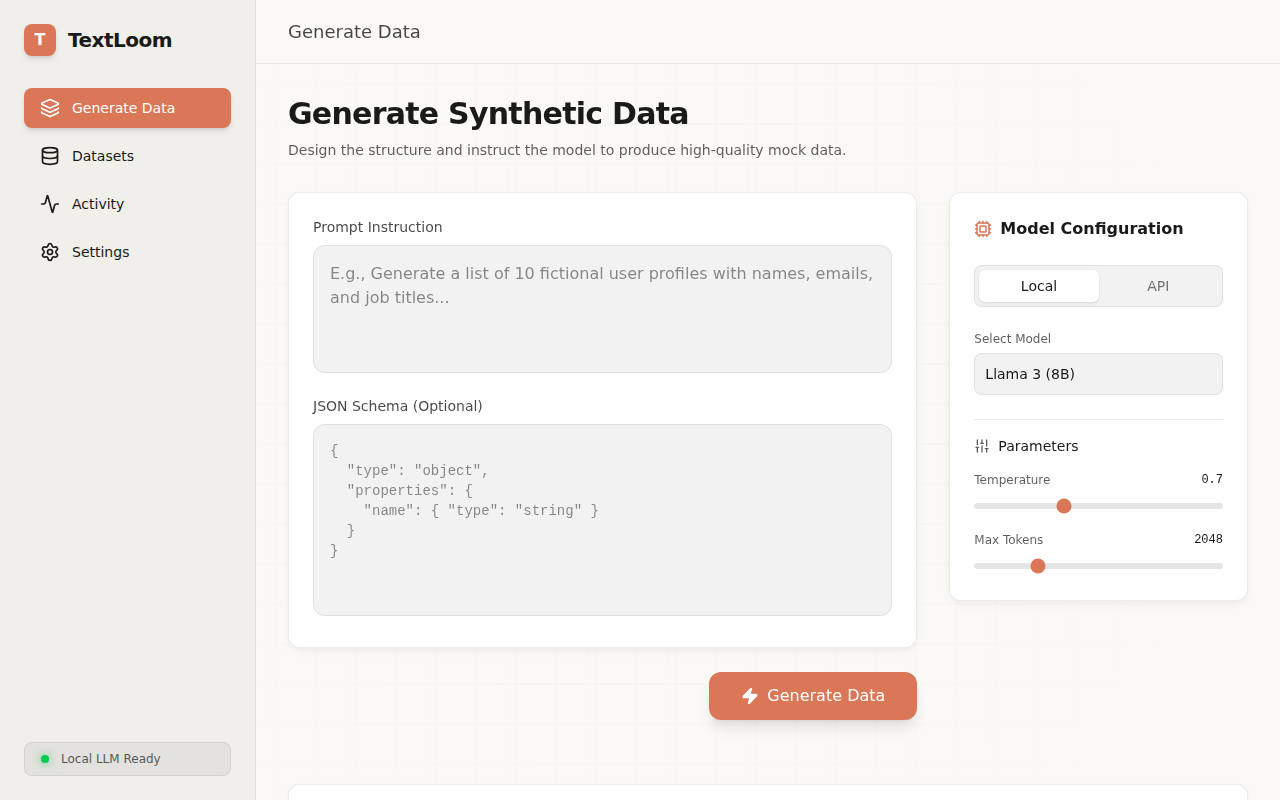
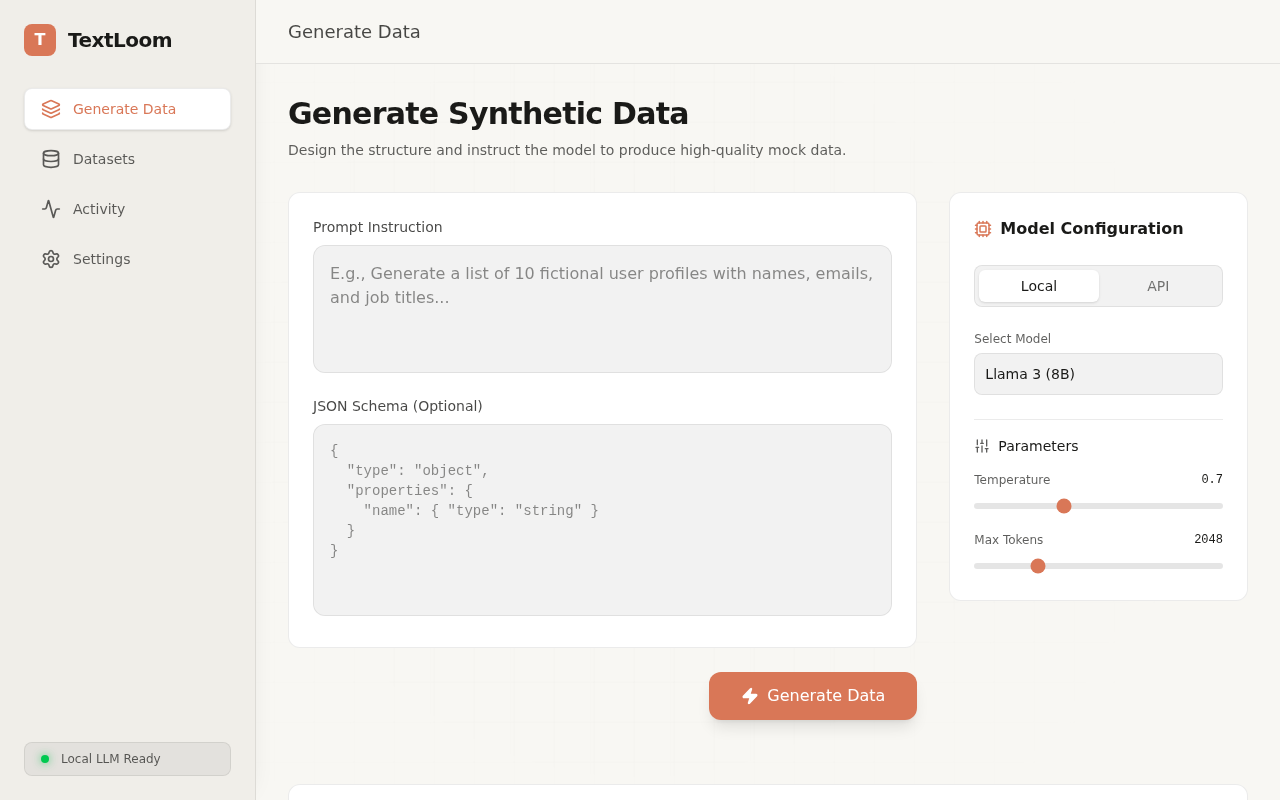
Elevate UI design with modern aesthetic and interactions
- Replace glassmorphism with solid, clean panels and Anthropic-inspired colors.
- Introduce `SpotlightCard` for beautiful, mouse-tracking hover interactions.
- Update Framer Motion spring interactions on navigation items and form elements.
- Enhance table row styling in ResultsView with interactive states.
- Refine background grid layer opacity and animation speed.

diff --git a/src/components/DataGenerationForm.tsx b/src/components/DataGenerationForm.tsx
@@ -1,6 +1,7 @@
 import React, { useState } from 'react';
 import { motion } from 'framer-motion';
 import { Sliders, Cpu, Zap } from 'lucide-react';
+import SpotlightCard from './SpotlightCard';
 
 const DataGenerationForm: React.FC = () => {
   const [modelType, setModelType] = useState<'local' | 'api'>('local');
@@ -14,8 +15,8 @@ const DataGenerationForm: React.FC = () => {
           initial={{ opacity: 0, y: 20 }}
           animate={{ opacity: 1, y: 0 }}
           transition={{ delay: 0.1, type: "spring", stiffness: 400, damping: 40 }}
-          className="glass-panel p-6 rounded-2xl"
         >
+          <SpotlightCard className="p-6 rounded-2xl">
           <div className="mb-4">
             <label className="block text-sm font-medium opacity-80 mb-2">Prompt Instruction</label>
             <textarea
@@ -33,6 +34,7 @@ const DataGenerationForm: React.FC = () => {
               ></textarea>
             </div>
           </div>
+          </SpotlightCard>
         </motion.div>
 
         <motion.div
@@ -41,10 +43,14 @@ const DataGenerationForm: React.FC = () => {
           transition={{ delay: 0.2, type: "spring", stiffness: 400, damping: 40 }}
           className="flex justify-end"
         >
-          <button className="flex items-center space-x-2 px-8 py-3 rounded-xl bg-[var(--accent-color)] hover:bg-[var(--accent-hover)] text-white font-medium shadow-lg shadow-[var(--accent-color)]/30 smooth-transition transform hover:scale-105 active:scale-95">
+          <motion.button
+            whileHover={{ scale: 1.02 }}
+            whileTap={{ scale: 0.98 }}
+            className="flex items-center space-x-2 px-8 py-3 rounded-xl bg-[var(--accent-color)] hover:bg-[var(--accent-hover)] text-white font-medium shadow-lg shadow-[var(--accent-color)]/30 smooth-transition"
+          >
             <Zap size={18} className="fill-current" />
             <span>Generate Data</span>
-          </button>
+          </motion.button>
         </motion.div>
       </div>
 
@@ -55,7 +61,7 @@ const DataGenerationForm: React.FC = () => {
         transition={{ delay: 0.3, type: "spring", stiffness: 400, damping: 40 }}
         className="space-y-6"
       >
-        <div className="glass-panel p-6 rounded-2xl">
+        <SpotlightCard className="p-6 rounded-2xl">
           <div className="flex items-center space-x-2 mb-6">
             <Cpu size={18} className="text-[var(--accent-color)]" />
             <h3 className="font-semibold">Model Configuration</h3>
@@ -139,7 +145,7 @@ const DataGenerationForm: React.FC = () => {
               </div>
             </div>
           </div>
-        </div>
+        </SpotlightCard>
       </motion.div>
     </div>
   );

diff --git a/src/components/Layout.tsx b/src/components/Layout.tsx
@@ -31,11 +31,11 @@ const Layout: React.FC<LayoutProps> = ({ children }) => {
         initial={{ x: -250 }}
         animate={{ x: 0 }}
         transition={{ type: "spring", stiffness: 400, damping: 40 }}
-        className="w-64 flex flex-col glass-sidebar z-10"
+        className="w-64 flex flex-col solid-sidebar z-10 shadow-[4px_0_24px_-12px_rgba(0,0,0,0.1)]"
       >
         <div className="p-6">
           <div className="flex items-center space-x-3 mb-8">
-            <div className="w-8 h-8 rounded-lg bg-[var(--accent-color)] flex items-center justify-center text-white font-bold shadow-md">
+            <div className="w-8 h-8 rounded-lg bg-[var(--accent-color)] flex items-center justify-center text-white font-bold">
               T
             </div>
             <h1 className="text-xl font-semibold tracking-tight">TextLoom</h1>
@@ -43,18 +43,21 @@ const Layout: React.FC<LayoutProps> = ({ children }) => {
 
           <nav className="space-y-2">
             {navItems.map((item) => (
-              <button
+              <motion.button
                 key={item.id}
                 onClick={() => setActiveTab(item.id)}
-                className={`w-full flex items-center space-x-3 px-4 py-2.5 rounded-lg smooth-transition ${
+                whileHover={{ scale: 1.02 }}
+                whileTap={{ scale: 0.98 }}
+                transition={{ type: "spring", stiffness: 400, damping: 25 }}
+                className={`w-full flex items-center space-x-3 px-4 py-2.5 rounded-lg smooth-transition border ${
                   activeTab === item.id
-                    ? 'bg-[var(--accent-color)] text-white shadow-md'
-                    : 'hover:bg-black/5 dark:hover:bg-white/10 text-opacity-80'
+                    ? 'bg-[var(--card-bg)] text-[var(--accent-color)] border-[var(--border-color)] shadow-sm'
+                    : 'border-transparent hover:bg-black/5 dark:hover:bg-white/10 opacity-70 hover:opacity-100'
                 }`}
               >
                 {item.icon}
                 <span className="font-medium text-sm">{item.label}</span>
-              </button>
+              </motion.button>
             ))}
           </nav>
         </div>

diff --git a/src/components/ResultsView.tsx b/src/components/ResultsView.tsx
@@ -1,6 +1,7 @@
 import React, { useState } from 'react';
 import { motion, AnimatePresence } from 'framer-motion';
 import { Copy, Check, FileJson, Code } from 'lucide-react';
+import SpotlightCard from './SpotlightCard';
 
 const ResultsView: React.FC = () => {
   const [copied, setCopied] = useState(false);
@@ -25,7 +26,7 @@ const ResultsView: React.FC = () => {
       transition={{ delay: 0.4, type: "spring", stiffness: 400, damping: 40 }}
       className="mt-8"
     >
-      <div className="glass-panel p-6 rounded-2xl">
+      <SpotlightCard className="p-6 rounded-2xl">
         <div className="flex items-center justify-between mb-6">
           <div className="flex items-center space-x-2">
             <FileJson size={18} className="text-[var(--accent-color)]" />
@@ -99,7 +100,11 @@ const ResultsView: React.FC = () => {
                 </thead>
                 <tbody>
                   {dummyData.map((row, i) => (
-                    <tr key={i} className="border-b border-[var(--border-color)] last:border-0 hover:bg-black/5 dark:hover:bg-white/5 smooth-transition">
+                    <motion.tr
+                      key={i}
+                      whileHover={{ backgroundColor: "rgba(0,0,0,0.02)" }}
+                      className="border-b border-[var(--border-color)] last:border-0 dark:hover:bg-white/5 smooth-transition"
+                    >
                       {Object.values(row).map((val: unknown, j) => (
                         <td key={j} className="p-3 text-sm">
                           {typeof val === 'string' && (val === 'Active' || val === 'Inactive') ? (
@@ -109,14 +114,14 @@ const ResultsView: React.FC = () => {
                           ) : val as React.ReactNode}
                         </td>
                       ))}
-                    </tr>
+                    </motion.tr>
                   ))}
                 </tbody>
               </table>
             </div>
           )}
         </div>
-      </div>
+      </SpotlightCard>
     </motion.div>
   );
 };

diff --git a/src/components/SpotlightCard.tsx b/src/components/SpotlightCard.tsx
@@ -1,0 +1,55 @@
+import React, { useState } from 'react';
+import { motion, useMotionTemplate, useSpring } from 'framer-motion';
+
+interface SpotlightCardProps {
+  children: React.ReactNode;
+  className?: string;
+  onClick?: () => void;
+}
+
+const SpotlightCard: React.FC<SpotlightCardProps> = ({ children, className = '', onClick }) => {
+  const mouseX = useSpring(0, { stiffness: 500, damping: 100 });
+  const mouseY = useSpring(0, { stiffness: 500, damping: 100 });
+  const [isHovered, setIsHovered] = useState(false);
+
+  function handleMouseMove({
+    currentTarget,
+    clientX,
+    clientY,
+  }: React.MouseEvent<HTMLDivElement>) {
+    const { left, top } = currentTarget.getBoundingClientRect();
+    mouseX.set(clientX - left);
+    mouseY.set(clientY - top);
+  }
+
+  const spotlightColor = "rgba(120, 120, 120, 0.08)";
+
+  return (
+    <motion.div
+      className={`relative overflow-hidden solid-panel ${className}`}
+      onMouseMove={handleMouseMove}
+      onMouseEnter={() => setIsHovered(true)}
+      onMouseLeave={() => setIsHovered(false)}
+      onClick={onClick}
+      whileHover={{ y: -2, boxShadow: "0 8px 30px rgba(0,0,0,0.06)" }}
+      transition={{ type: "spring", stiffness: 300, damping: 20 }}
+    >
+      <motion.div
+        className="pointer-events-none absolute -inset-px rounded-xl opacity-0 transition duration-300"
+        style={{
+          opacity: isHovered ? 1 : 0,
+          background: useMotionTemplate`
+            radial-gradient(
+              650px circle at ${mouseX}px ${mouseY}px,
+              ${spotlightColor},
+              transparent 80%
+            )
+          `,
+        }}
+      />
+      <div className="relative z-10 h-full">{children}</div>
+    </motion.div>
+  );
+};
+
+export default SpotlightCard;

diff --git a/src/index.css b/src/index.css
@@ -1,9 +1,9 @@
 @import "tailwindcss";
 
 :root {
-  --bg-color: #FAF9F6;
+  --bg-color: #F8F7F3;
   --text-color: #1A1A18;
-  --sidebar-bg: #F0EFEA;
+  --sidebar-bg: #F0EEE9;
   --card-bg: #FFFFFF;
   --border-color: rgba(0, 0, 0, 0.08);
   --grid-color: rgba(0, 0, 0, 0.04);
@@ -13,10 +13,10 @@
 
 @media (prefers-color-scheme: dark) {
   :root {
-    --bg-color: #262624;
+    --bg-color: #1F1E1B;
     --text-color: #E8E4DC;
-    --sidebar-bg: #1E1E1C;
-    --card-bg: #2E2E2A;
+    --sidebar-bg: #181816;
+    --card-bg: #252422;
     --border-color: rgba(255, 255, 255, 0.08);
     --grid-color: rgba(255, 255, 255, 0.04);
     --accent-color: #D97757;
@@ -34,14 +34,15 @@ body {
   -moz-osx-font-smoothing: grayscale;
 }
 
-.glass-panel {
+.solid-panel {
   background-color: var(--card-bg);
   border: 1px solid var(--border-color);
   border-radius: 0.75rem;
-  box-shadow: 0 2px 8px -2px rgba(0, 0, 0, 0.05), 0 4px 12px -2px rgba(0, 0, 0, 0.05);
+  /* Strictly solid panels - no shadow/glassmorphism blur by default.
+     Interactive hover states will be handled by Framer Motion. */
 }
 
-.glass-sidebar {
+.solid-sidebar {
   background-color: var(--sidebar-bg);
   border-right: 1px solid var(--border-color);
 }
@@ -75,14 +76,14 @@ body {
 
 .grid-layer-1 {
   background-size: 40px 40px;
-  animation: grid-move-1 20s linear infinite;
-  opacity: 0.8;
+  animation: grid-move-1 40s linear infinite;
+  opacity: 0.5;
 }
 
 .grid-layer-2 {
   background-size: 80px 80px;
-  animation: grid-move-2 30s linear infinite;
-  opacity: 0.4;
+  animation: grid-move-2 60s linear infinite;
+  opacity: 0.2;
 }
 
 @keyframes grid-move-1 {
